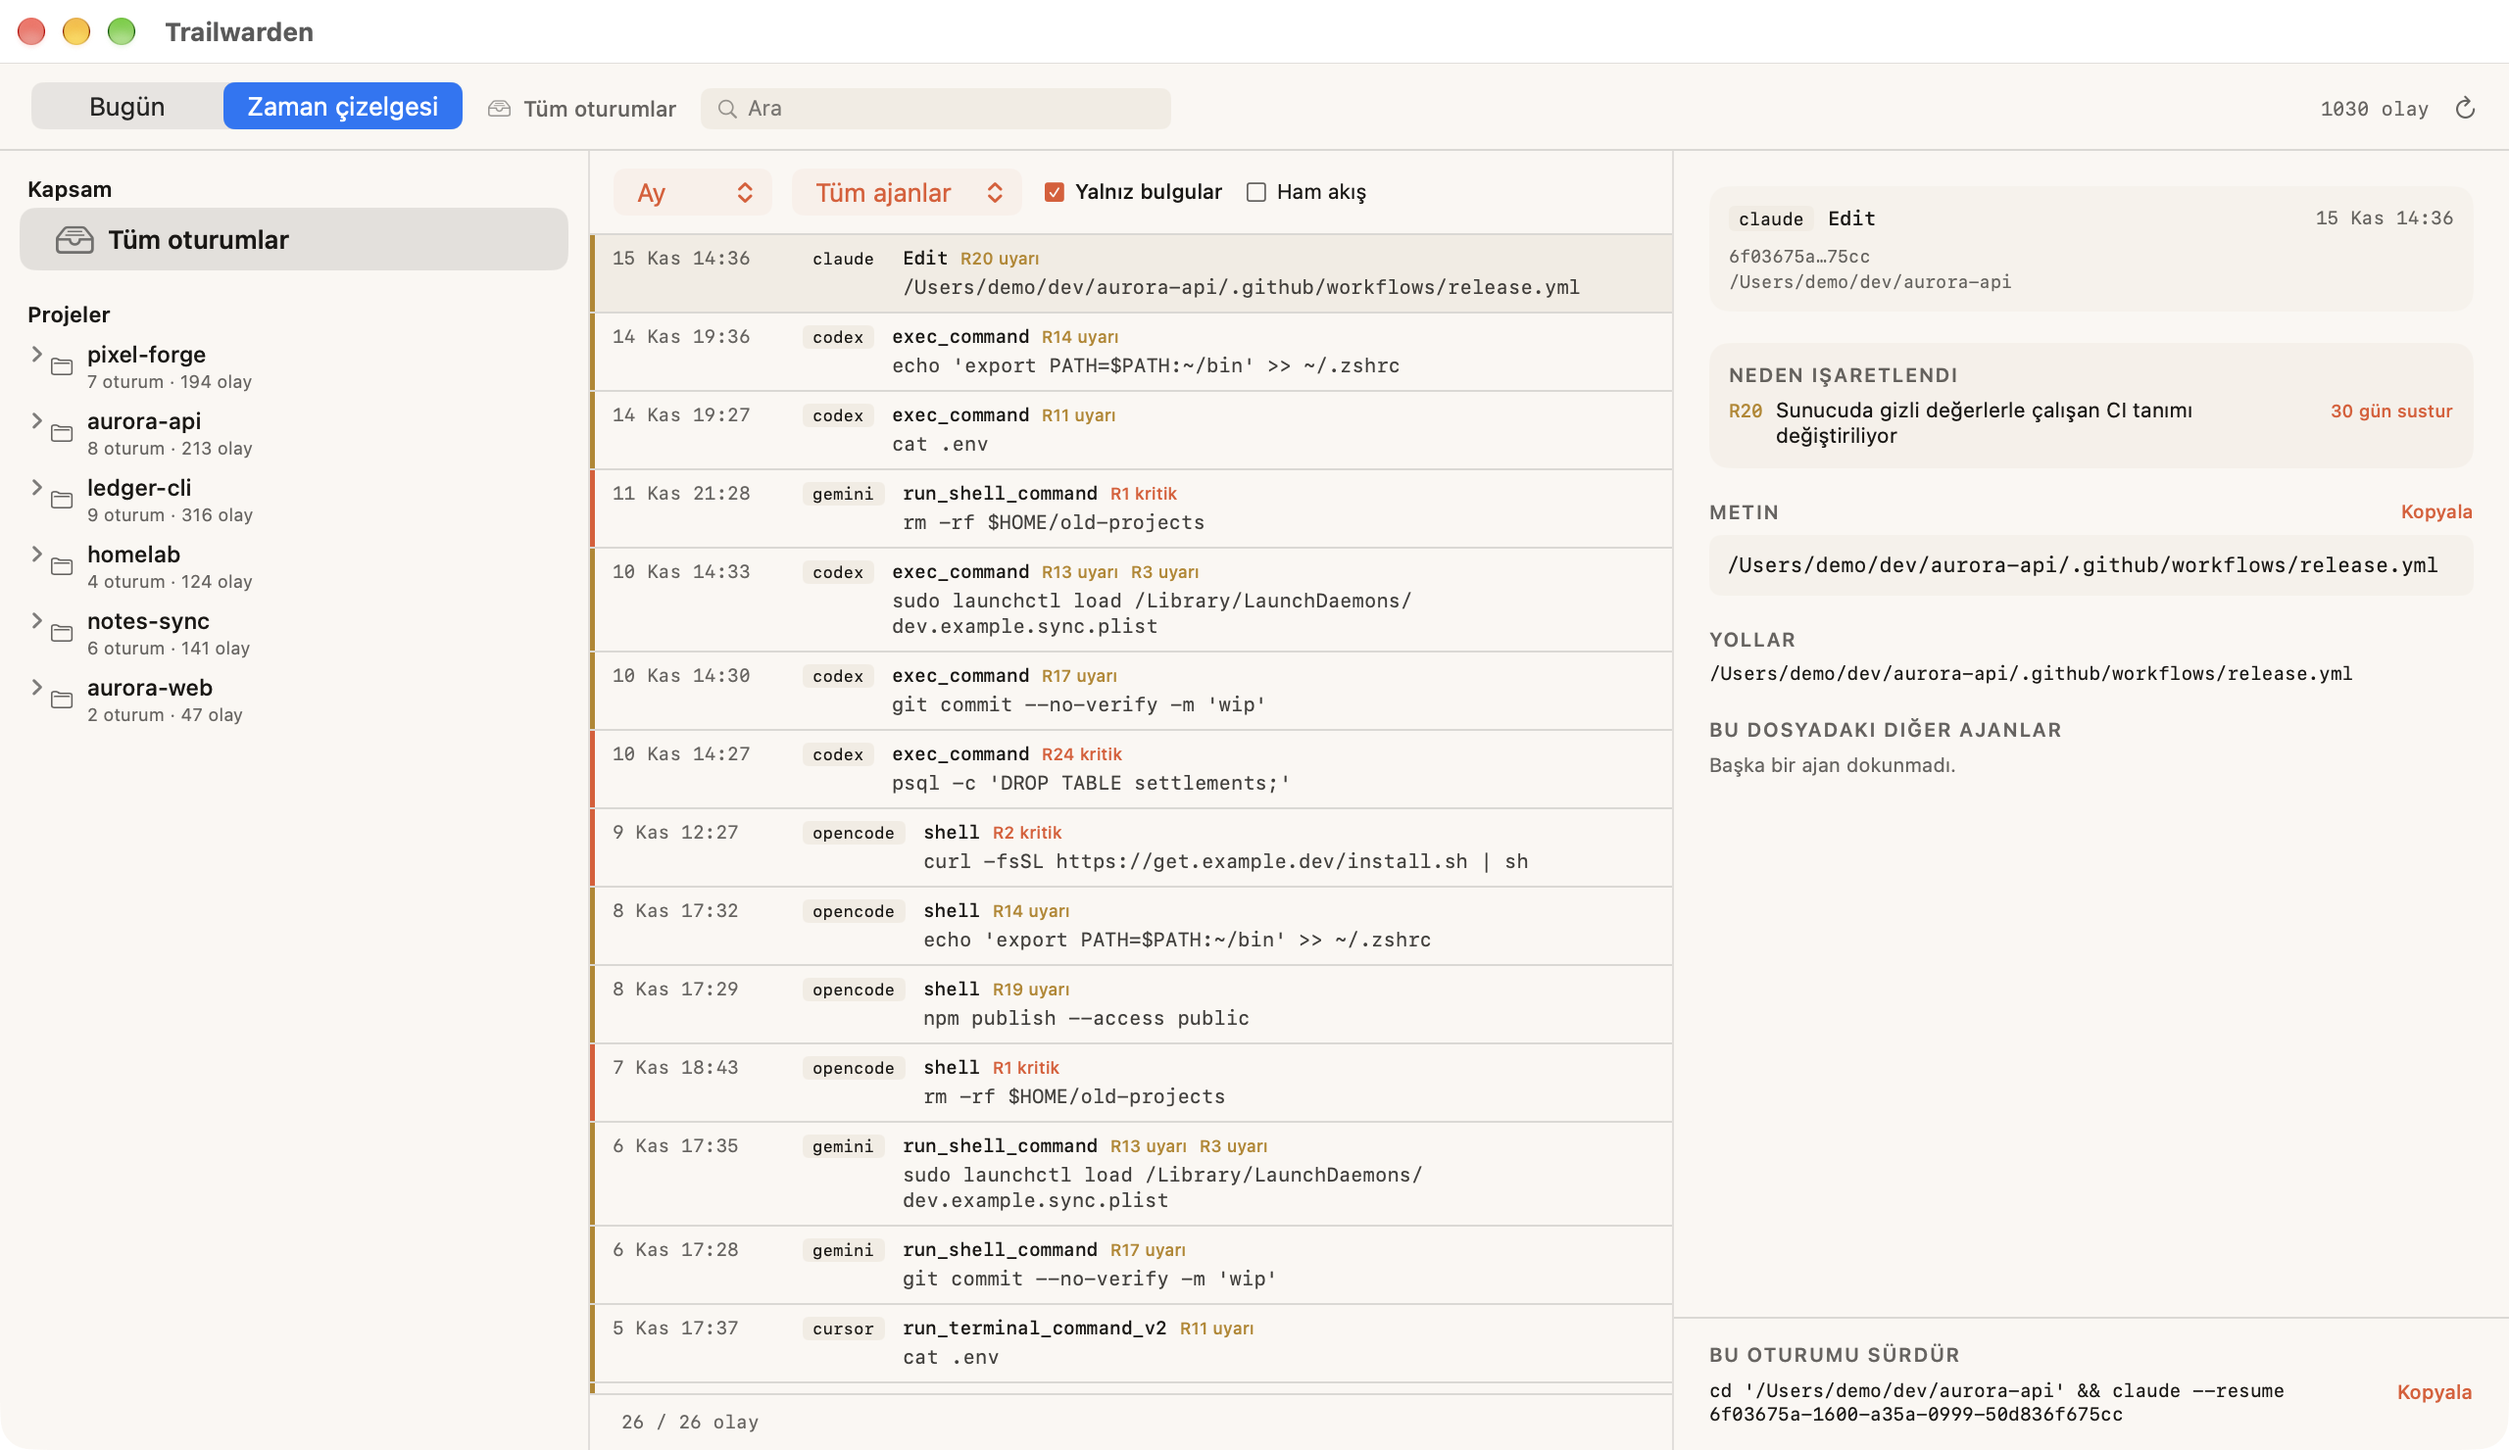
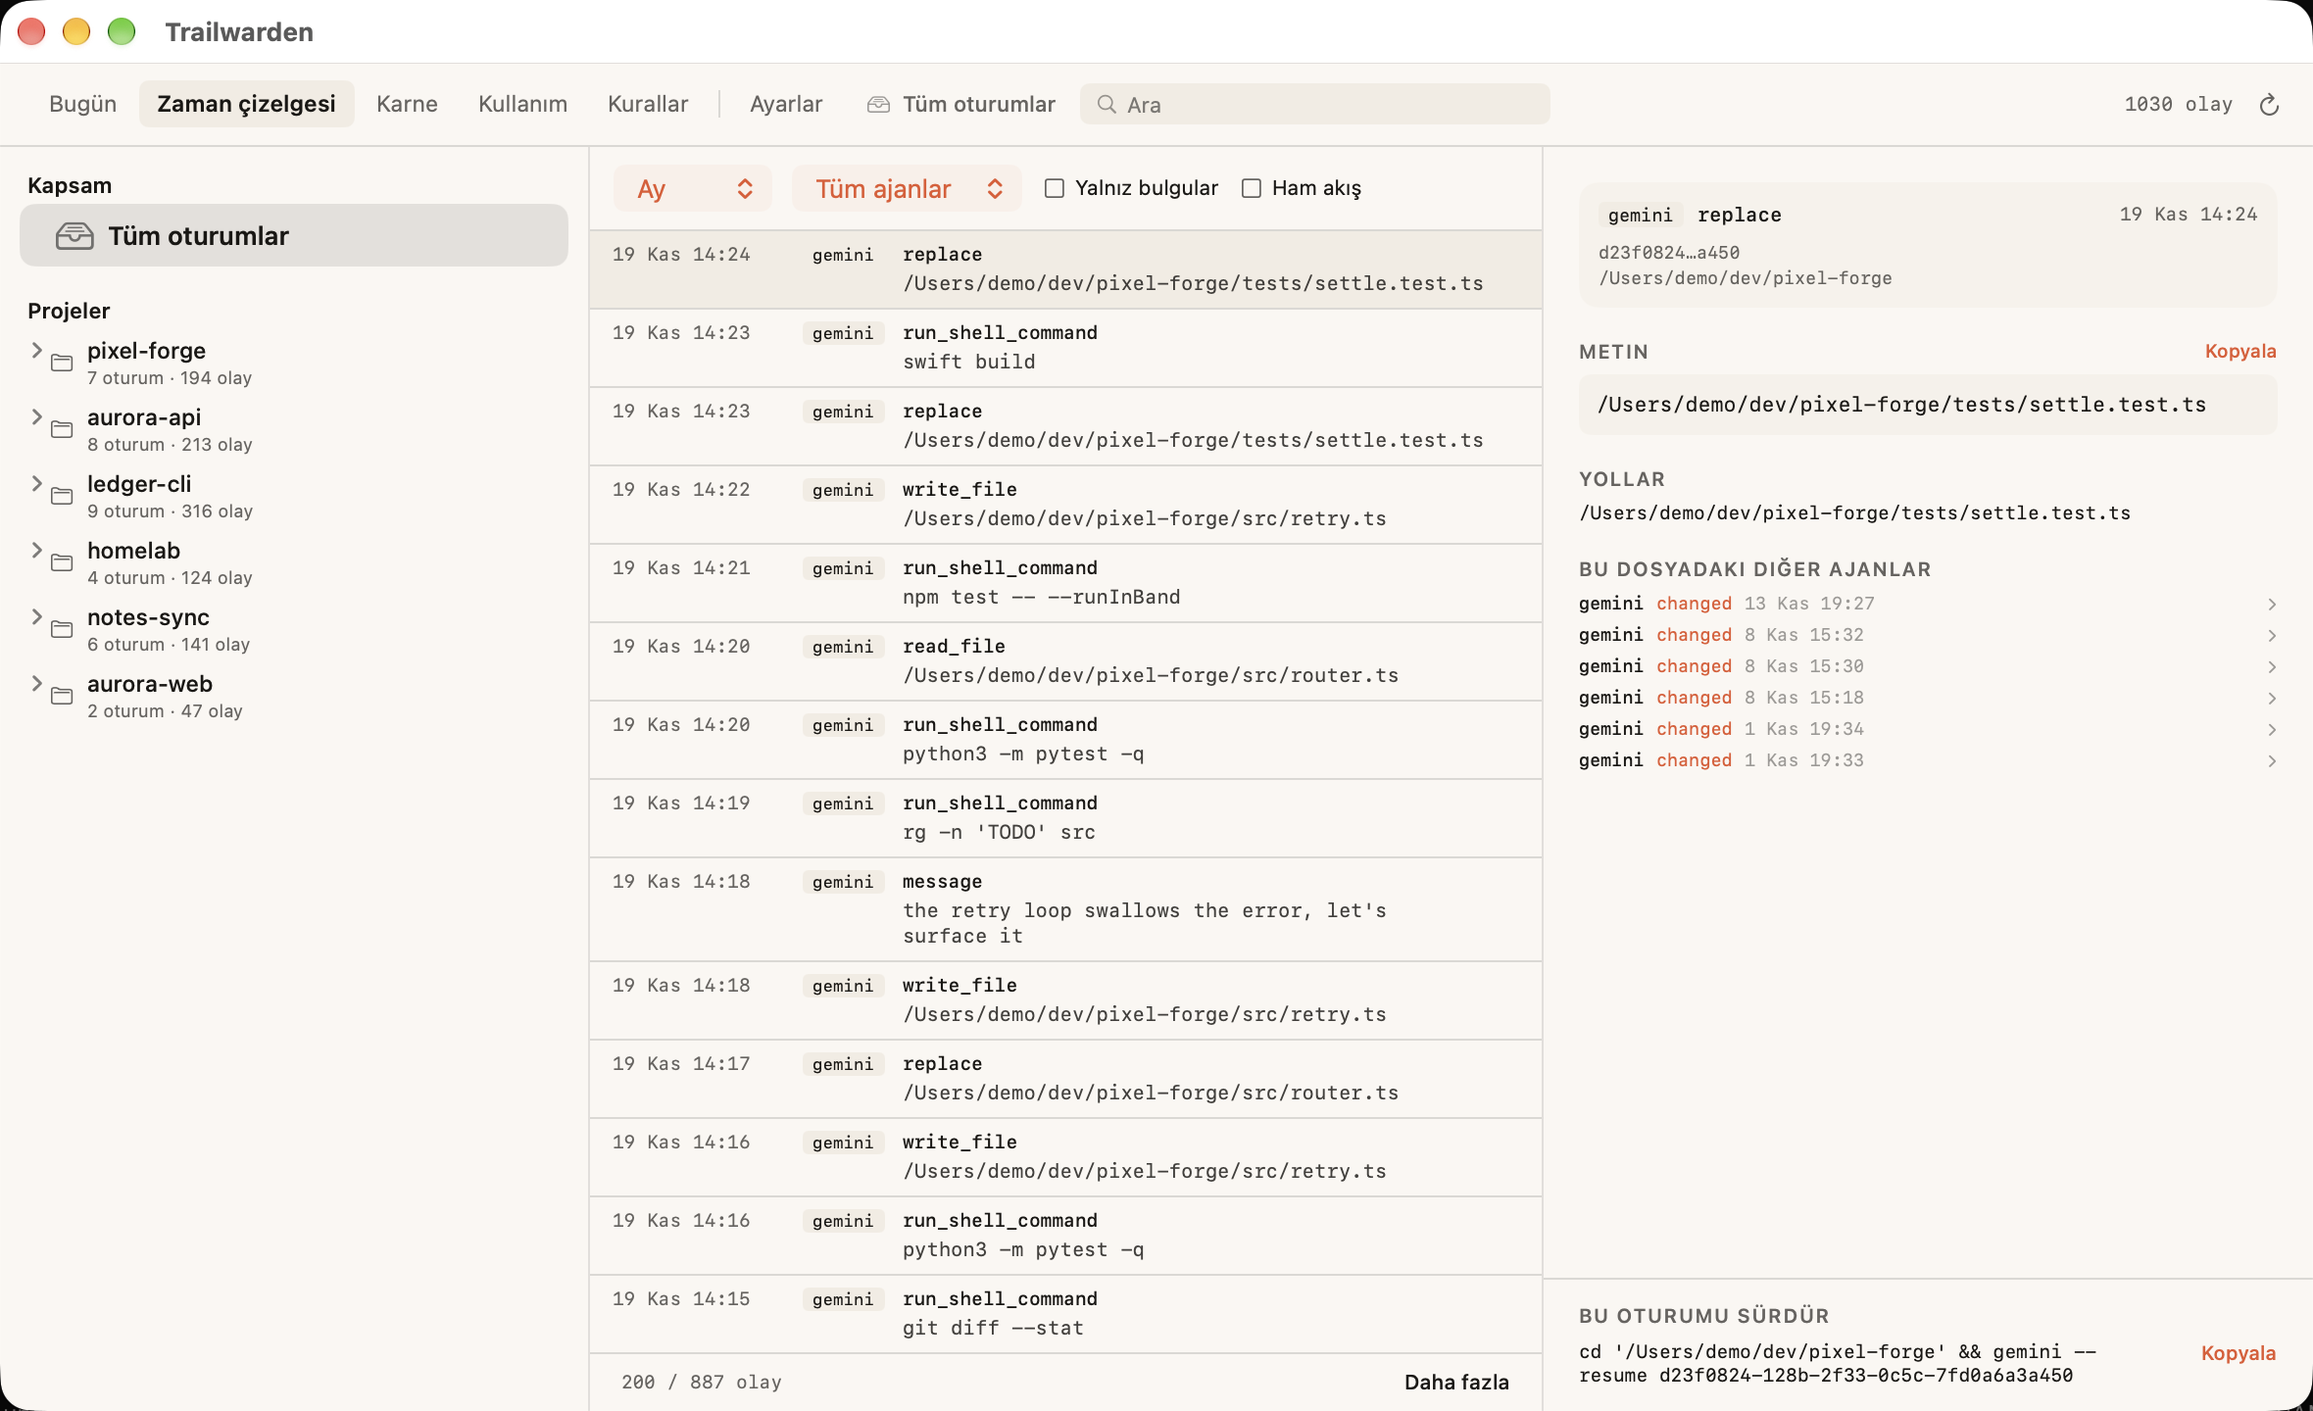
Show the one-window UI in the README, and stop calling the MCP server Apple-Silicon-only
The screenshots were taken before 0.2.3 and still showed the Today|Timeline picker
and Usage as a window of its own. They are new captures of the installed 0.2.3
against the demo database, in both languages the READMEs use.

The npm package note claimed Apple Silicon; the binaries have been universal
since 0.2.2.

diff --git a/packaging/npm/README.md b/packaging/npm/README.md
@@ -1,7 +1,7 @@
 # trailwarden-mcp
 
-Local audit trail for coding agents, exposed as an MCP server (macOS, Apple
-Silicon).
+Local audit trail for coding agents, exposed as an MCP server (macOS 14+, Apple
+Silicon and Intel).
 
 Answers questions about what Claude Code, Codex, Gemini CLI, opencode, Cursor,
 GitHub Copilot and Hermes did on your Mac, from the index the Trailwarden app or
